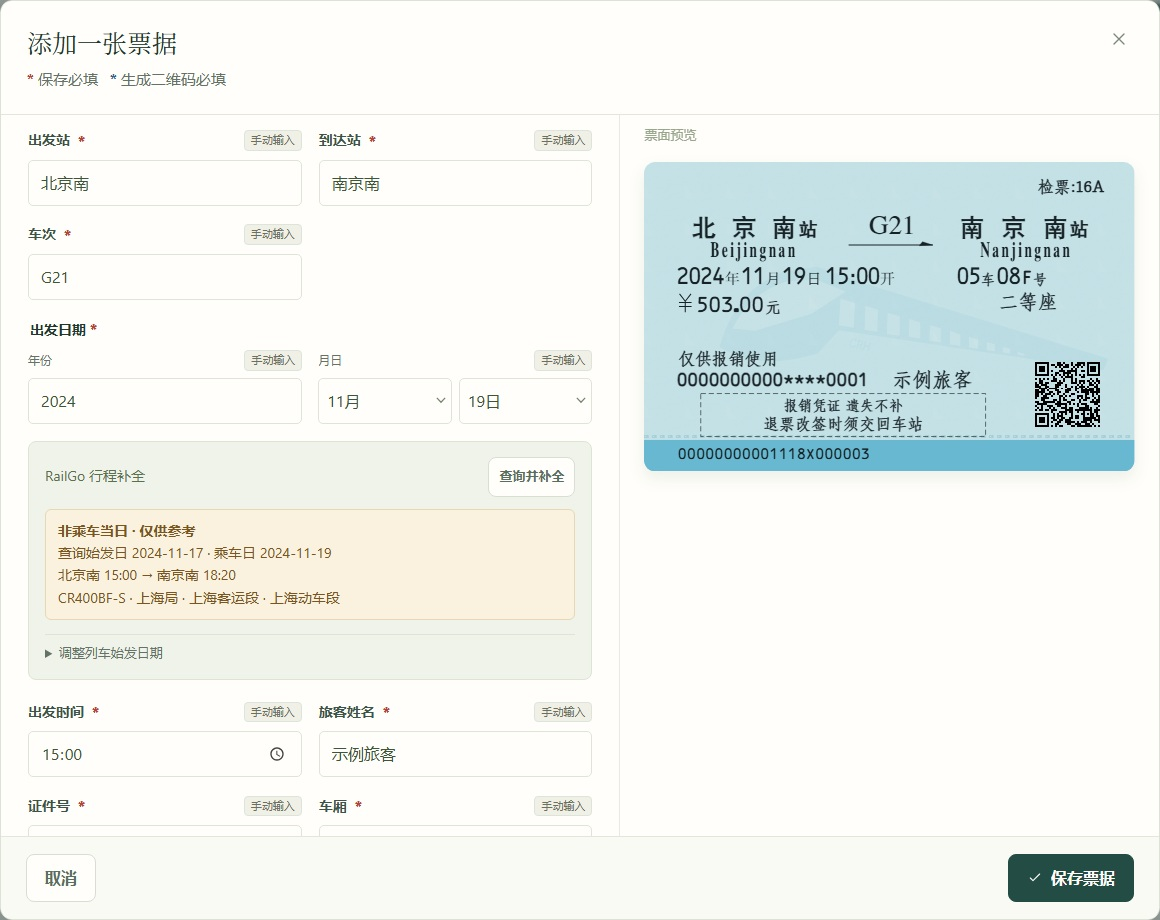
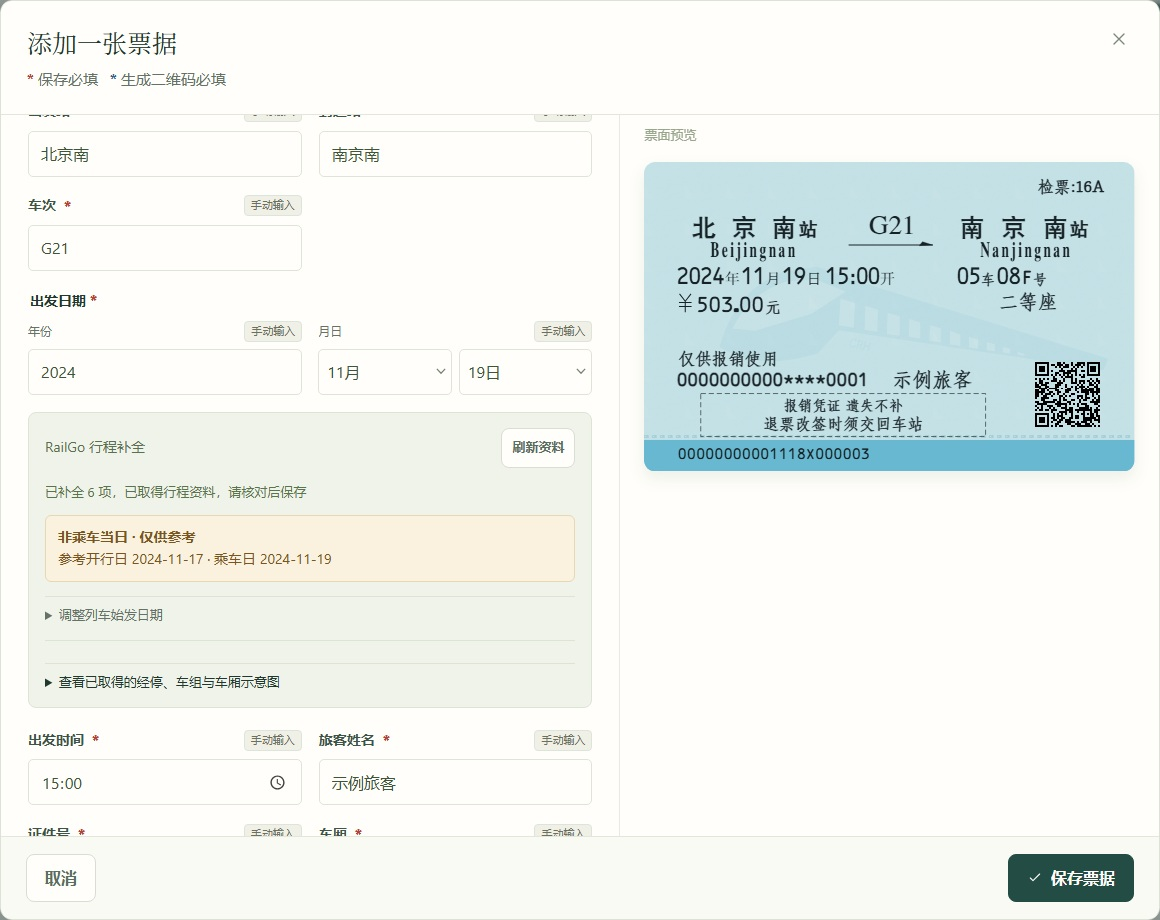
Fill RailGo fields from the nearest run day with reference labels

diff --git a/src/rail-lookup.js b/src/rail-lookup.js
@@ -2,27 +2,34 @@ import {calendarDate} from './journey-date.js';
 import { escape as e } from './html.js';
 import { railQuery, railCompletion } from './rail-lookup-model.js';
 import { lookupRailDetails, RAIL_DETAILS_SOURCE } from './rail-data.js';
-import { railJourneyMarkup, bindRailJourney } from './rail-journey-ui.js';
+import { railJourneyMarkup, railReferenceNotice, bindRailJourney } from './rail-journey-ui.js';
 import { railJourneyMatches } from './rail-journey.js';
-import {fieldSourceBadge} from './field-sources.js';
+import {fieldSourceBadge,RAILGO_REFERENCE_SOURCE} from './field-sources.js';
 
 export const railTrainsetField=record=>`<label class="field"><span>车组编号${fieldSourceBadge('railTrainsets',record)}</span><input name="railTrainsets" data-rail-trainsets value="${e(record.railTrainsets || '')}" placeholder="如 CR400BF-B-5099，多组用 / 分隔" /></label>`;
 
 export function railLookupMarkup(record) {
-  return `<section class="rail-lookup" aria-label="铁路资料补全"><div class="rail-lookup-heading"><a href="${RAIL_DETAILS_SOURCE}" target="_blank" rel="noopener noreferrer">RailGo 行程补全</a><button class="button secondary small" type="button" data-rail-lookup>${railJourneyMatches(record) ? '刷新资料' : '查询并补全'}</button></div><p class="rail-lookup-status" data-rail-status role="status" aria-live="polite"></p><div class="code-consistency" data-rail-reference role="status" aria-live="polite" hidden></div><details class="rail-start-override"><summary>调整列车始发日期</summary><label class="field"><span>列车始发日期</span><input type="date" data-date-control data-rail-start value="${e(railJourneyMatches(record) && calendarDate(record.railJourney.query.startDate) !== calendarDate(record.departureDate) ? calendarDate(record.railJourney.query.startDate) : '')}" min="1800-01-01" max="2200-12-31"/></label></details><details class="rail-lookup-result" data-rail-result ${railJourneyMatches(record) ? '' : 'hidden'}><summary>查看已取得的经停、车组与车厢示意图</summary><div data-rail-journey-preview>${railJourneyMarkup(record)}</div></details></section>`;
+  const journey = railJourneyMatches(record) ? record.railJourney : null;
+  const savedStart = journey && !journey.query.referenceFor ? calendarDate(journey.query.startDate) : '';
+  const startOverride = savedStart === calendarDate(record.departureDate) ? '' : savedStart;
+  const reference = railReferenceNotice(record);
+  return `<section class="rail-lookup" aria-label="铁路资料补全"><div class="rail-lookup-heading"><a href="${RAIL_DETAILS_SOURCE}" target="_blank" rel="noopener noreferrer">RailGo 行程补全</a><button class="button secondary small" type="button" data-rail-lookup>${journey ? '刷新资料' : '查询并补全'}</button></div><p class="rail-lookup-status" data-rail-status role="status" aria-live="polite"></p><div class="code-consistency" data-rail-reference role="status" aria-live="polite" ${reference ? '' : 'hidden'}>${reference}</div><details class="rail-start-override"><summary>调整列车始发日期</summary><label class="field"><span>列车始发日期</span><input type="date" data-date-control data-rail-start value="${e(startOverride)}" min="1800-01-01" max="2200-12-31"/></label></details><details class="rail-lookup-result" data-rail-result ${journey ? '' : 'hidden'}><summary>查看已取得的经停、车组与车厢示意图</summary><div data-rail-journey-preview>${railJourneyMarkup(record)}</div></details></section>`;
 }
 export function bindRailLookup(form, { getRecord, canQuery, apply, lookup = lookupRailDetails, scannedRail, scannedRailQR }) {
   const section = form.querySelector('.rail-lookup');
   if (!section) return () => {};
   const button = section.querySelector('[data-rail-lookup]'), date = section.querySelector('[data-rail-start]'), status = section.querySelector('[data-rail-status]'), preview = section.querySelector('[data-rail-journey-preview]'), resultBox = section.querySelector('[data-rail-result]');
   const referenceBox = section.querySelector('[data-rail-reference]');
-  let disposed = false, busy = false, request, appliedStamp = '', referenceStamp = '', applying = false;
+  let disposed = false, busy = false, request, appliedStamp = '', applying = false;
   const scan = scannedRailQR || scannedRail;
   const filled = new Map(Object.entries(getRecord().lookupValues || {}));
   const stamp = () => JSON.stringify([date.value, ...['type','template','service','departureDate','origin','originCode','destination','destinationCode'].map(field => getRecord()[field] || '')]);
-  if(filled.size)appliedStamp=stamp();
+  if (filled.size || railJourneyMatches(getRecord())) appliedStamp=stamp();
   const renderResult = () => {
     const record=getRecord();preview.innerHTML=railJourneyMarkup(record);resultBox.hidden=!railJourneyMatches(record);
+    const reference=railReferenceNotice(record);
+    if (referenceBox.innerHTML!==reference) referenceBox.innerHTML=reference;
+    referenceBox.hidden=!reference;
     const input=form.querySelector('[data-rail-trainsets]');if(input && input.value!==(record.railTrainsets || ''))input.value=record.railTrainsets || '';
   };
   const refresh = () => {
@@ -37,37 +44,25 @@ export function bindRailLookup(form, { getRecord, canQuery, apply, lookup = look
     try {
       const input = railQuery(getRecord(),date.value || undefined), original=stamp();
       const initialTime = getRecord().departureTime;
-      referenceBox.hidden = true;
-      referenceStamp = '';
       busy=true; button.disabled=true; button.textContent='正在查询…'; status.textContent='正在查询时刻、担当单位与列车资料…';
       request=new AbortController();
       const result=await lookup(input,{railRoute:getRecord().railRoute,railJourney:getRecord().railJourney,signal:AbortSignal.any([request.signal,AbortSignal.timeout(40000)])});
       if (disposed || !form.isConnected) return;
       if (!canQuery() || form.querySelector('[type="submit"]')?.disabled || original!==stamp() ||
           (automatic && getRecord().departureTime !== initialTime)) { status.textContent='查询条件已改变，本次结果未填入'; return; }
-      if (result.reference) {
-        const ref = result.reference;
-        const start = calendarDate(ref.railJourney.query.startDate);
-        const boarding = calendarDate(ref.railJourney.query.boardingDate);
-        const departure = (start === boarding ? '' : boarding + ' ') + ref.departureTime;
-        const arrival = (ref.arrivalDate === boarding ? '' : ref.arrivalDate + ' ') + ref.arrivalTime;
-        const details = [ref.railModel, ref.railBureau, ref.railRunner, ref.railCarOwner].filter(Boolean).join(' · ');
-        referenceBox.innerHTML = `<strong>非乘车当日 · 仅供参考</strong><div>查询始发日 ${e(start)} · 乘车日 ${e(input.boardingDate)}</div><div>${e(input.origin)} ${e(departure)} → ${e(input.destination)} ${e(arrival)}</div>${details ? '<div>' + e(details) + '</div>' : ''}`;
-        referenceBox.hidden = false;
-        referenceStamp = original;
-        status.textContent = '';
-        return;
-      }
-      if (automatic && scan.departureTime && result.departureTime !== scan.departureTime) {
+      const reference = result.railJourney.query.referenceFor;
+      if (!reference && automatic && scan.departureTime && result.departureTime !== scan.departureTime) {
         status.textContent='RailGo 发车时间与票面不同，请核对后手动查询';
         return;
       }
       const changes=railCompletion(getRecord(),result,date.value || undefined), count=Object.keys(changes).filter(key=>changes[key] && !['railJourney','railRoute'].includes(key)).length, snapshot=!!(changes.railJourney || changes.railRoute);
       if (Object.keys(changes).length) {
+        const runDay=calendarDate(result.railJourney.query.startDate);
+        const source=reference ? {kind:RAILGO_REFERENCE_SOURCE,label:`RailGo 参考资料（开行日 ${runDay}）`} : {kind:'rail-lookup',label:`RailGo 行程资料（始发日 ${runDay}）`};
         applying=true;
-        try { apply(changes,{kind:'rail-lookup',label:`RailGo 行程资料（始发日 ${calendarDate(result.railJourney.query.startDate)}）`,at:new Date().toISOString()}); }
+        try { apply(changes,{...source,at:new Date().toISOString()}); }
         finally { applying=false; }
-        for (const [field,value] of Object.entries(changes)) if (!['railJourney','railRoute'].includes(field)) filled.set(field,value);
+        for (const field of Object.keys(changes)) if (!['railJourney','railRoute'].includes(field)) filled.set(field,getRecord()[field]);
         appliedStamp=stamp();
       }
       renderResult();
@@ -78,15 +73,12 @@ export function bindRailLookup(form, { getRecord, canQuery, apply, lookup = look
   }
   const input=event=>{
     if (!applying && !disposed) {
-      if (event.target.closest('[data-journey-date]')?.dataset.journeyDate==='departureDate') date.value='';
-      if (referenceStamp && referenceStamp !== stamp()) {
-        referenceBox.hidden = true;
-        referenceStamp = '';
-      }
-      filled.delete(event.target.name);
+      const dateField=event.target.closest('[data-journey-date]')?.dataset.journeyDate;
+      if (dateField==='departureDate') date.value='';
+      filled.delete(dateField || event.target.name);
       if (appliedStamp && appliedStamp!==stamp()) {
         const changes={railJourney:'',railRoute:''};
-        for (const [field,value] of filled) if (getRecord()[field]===value) changes[field]='';
+        for (const [field,value] of filled) if (JSON.stringify(getRecord()[field])===JSON.stringify(value)) changes[field]='';
         filled.clear(); appliedStamp=''; applying=true;
         try { apply(changes,null); } finally { applying=false; }
       }

diff --git a/src/app.js b/src/app.js
@@ -4,7 +4,7 @@ import {calendarDate,JOURNEY_DATE_FIELDS} from './journey-date.js';
 import {ticketFieldLocked,refreshTicketFieldLocks} from './barcode-fields.js';
 import {ACTUAL_FLIGHT_FIELDS} from './flight-times.js';
 import {boardingGeneratorMarkup,readBoardingGenerator,refreshBoardingPassenger} from './boarding-code-generator.js';
-import {fieldSourceBadge,hasFieldValue,markFieldSources,railInvoiceFieldLocked,refreshFieldSources} from './field-sources.js';
+import {fieldSourceBadge,hasFieldValue,markFieldSources,railInvoiceFieldLocked,refreshFieldSources,RAILGO_REFERENCE_SOURCE} from './field-sources.js';
 import {readBoardingCode} from './bcbp.js';
 import {flightPassengerName} from './flight-passenger.js';
 import { bindIdentityInput } from './identity.js';
@@ -43,7 +43,7 @@ import { flightLookupMarkup, bindFlightLookup } from './flight-lookup.js';
 import { flightTrackRequest } from './flight-track.js';
 import { railLookupMarkup, bindRailLookup, railTrainsetField } from './rail-lookup.js';
 import { RAIL_POINTS_PAGE, railPointsRange, readRailPoints, railPointsRecords } from './rail-points.js';
-import { railJourneyMarkup, bindRailJourney } from './rail-journey-ui.js';
+import { railJourneyMarkup, railReferenceNotice, bindRailJourney } from './rail-journey-ui.js';
 import { railJourneyMatches } from './rail-journey.js';
 import { openRailCamera } from './rail-camera.js';
 import { parseScanText, railPhotoChanges } from './scan-engine.js';
@@ -852,7 +852,8 @@ function viewRecord(id) {
   const r = findRecord(id); if (!r) return;
   const demo = id.startsWith('demo-');
   const details = ticketDetails(r);
-  openModal(modalHead(`<span class="heading-service">${e(r.service || (r.flightStatus === 'open' ? 'OPEN' : '班次待补充'))}</span><span class="heading-route">${e(r.origin || '出发地')} <span class="muted">→</span> ${e(r.destination || '到达地')}</span>`, demo ? '虚构示例' : '') + `<div class="detail-preview">${ticketSVG(r)}</div><div class="detail-body"><dl class="detail-grid">${details.map(([key, value]) => `<div><dt>${e(key === 'price' && isRefundReceipt(r) ? '退票费（元）' : key === 'seat' && r.type === 'flight' ? '座位 / 舱位' : key === 'gate' && r.type === 'flight' ? '登机口' : ticketFieldLabel(key,r.type,labels[key]))}</dt><dd>${e(value || '未收录')}</dd></div>`).join('')}</dl>${boardingJourneyMarkup(r,live())}${railJourneyMarkup(r,live())}${r.type === 'rail' ? '<section class="rail-route" data-rail-route hidden aria-label="铁路线路"></section>' : !demo && isJourneyRecord(r) ? '<section class="rail-route flight-track" data-flight-track aria-label="飞行航迹"></section>' : ''}<details class="source-details"><summary>数据来源 · ${r.sources.length} 条</summary>${r.sources.map(s => `<p>${e(s.label)}<span>${e(s.at.slice(0, 10))}</span></p>`).join('') || '<p>录入</p>'}</details></div><div class="modal-footer"><button class="button secondary" data-action="export-png" data-id="${e(id)}">${icon('download')}导出图片</button><button class="button secondary" data-action="export-svg" data-id="${e(id)}">SVG</button><div class="spacer"></div>${!demo ? `<button class="icon-button danger" data-action="delete" data-id="${e(id)}" aria-label="删除票据">${icon('trash')}</button><button class="button primary" data-action="edit" data-id="${e(id)}">${icon('edit')}编辑票据</button>` : ''}</div>`);
+  const reference = railReferenceNotice(r);
+  openModal(modalHead(`<span class="heading-service">${e(r.service || (r.flightStatus === 'open' ? 'OPEN' : '班次待补充'))}</span><span class="heading-route">${e(r.origin || '出发地')} <span class="muted">→</span> ${e(r.destination || '到达地')}</span>`, demo ? '虚构示例' : '') + `<div class="detail-preview">${ticketSVG(r)}</div><div class="detail-body">${reference ? `<div class="code-consistency" data-rail-reference>${reference}</div>` : ''}<dl class="detail-grid">${details.map(([key, value]) => `<div><dt>${e(key === 'price' && isRefundReceipt(r) ? '退票费（元）' : key === 'seat' && r.type === 'flight' ? '座位 / 舱位' : key === 'gate' && r.type === 'flight' ? '登机口' : ticketFieldLabel(key,r.type,labels[key]))}${r.fieldSources?.[key]===RAILGO_REFERENCE_SOURCE ? fieldSourceBadge(key,r) : ''}</dt><dd>${e(value || '未收录')}</dd></div>`).join('')}</dl>${boardingJourneyMarkup(r,live())}${railJourneyMarkup(r,live())}${r.type === 'rail' ? '<section class="rail-route" data-rail-route hidden aria-label="铁路线路"></section>' : !demo && isJourneyRecord(r) ? '<section class="rail-route flight-track" data-flight-track aria-label="飞行航迹"></section>' : ''}<details class="source-details"><summary>数据来源 · ${r.sources.length} 条</summary>${r.sources.map(s => `<p>${e(s.label)}<span>${e(s.at.slice(0, 10))}</span></p>`).join('') || '<p>录入</p>'}</details></div><div class="modal-footer"><button class="button secondary" data-action="export-png" data-id="${e(id)}">${icon('download')}导出图片</button><button class="button secondary" data-action="export-svg" data-id="${e(id)}">SVG</button><div class="spacer"></div>${!demo ? `<button class="icon-button danger" data-action="delete" data-id="${e(id)}" aria-label="删除票据">${icon('trash')}</button><button class="button primary" data-action="edit" data-id="${e(id)}">${icon('edit')}编辑票据</button>` : ''}</div>`);
   const journeyContainer=modalRoot.querySelector('.rail-journey');
   if(journeyContainer)railJourneyCleanup=bindRailJourney(journeyContainer,()=>r);
   const routeContainer = modalRoot.querySelector('[data-rail-route]');

diff --git a/tests/rail-lookup-app.test.js b/tests/rail-lookup-app.test.js
@@ -4,6 +4,7 @@ import assert from 'node:assert/strict';
 import { JSDOM } from 'jsdom';
 import { indexedDB } from 'fake-indexeddb';
 import { createRecord } from '../src/model.js';
+import { calendarDate } from '../src/journey-date.js';
 import { prepareCloud } from './helpers/cloud.js';
 
 test('the rail editor fetches, saves, reopens and counts rail metadata without changing the ticket face', async () => {
@@ -13,12 +14,13 @@ test('the rail editor fetches, saves, reopens and counts rail metadata without c
   window.scrollTo=()=>{};window.HTMLDialogElement.prototype.showModal=function(){this.open=true;};window.HTMLDialogElement.prototype.close=function(){this.open=false;};
   const ticket=createRecord({id:'rail',origin:'北京南',destination:'上海虹桥',service:'G1',departureDate:'2026-11-17',departureTime:'06:30',passenger:'示例旅客',identity:'P000001',carriage:'03',seat:'08A',seatClass:'二等座'});
   const server=await prepareCloud([ticket]),fetcher=globalThis.fetch,requests=[];let currentModel='CR400BF-S';
+  let runDay='20261117';
   globalThis.fetch=async(url,options)=>{
     if(new URL(url).hostname==='emu.railgo.zenglingkun.cn')return Response.json(new URL(url).pathname==='/api/query' ? {success:true,data:[{runDate:'2026-11-17',trainNum:'G1',trainCode:[currentModel+'-0001'],coupling:false}]} : {success:true,data:{id:currentModel+'-0001',model:currentModel}});
     if(new URL(url).hostname!=='rg-api.zenglingkun.cn')return fetcher(url,options);
     if(new URL(url).pathname!=='/api/v2/getTrainMain')return Response.json({success:false});
-    requests.push(url);assert.deepEqual([...new URL(url).searchParams],[['trainNum','G1'],['date','20261117']]);
-    return Response.json({success:true,data:{bureau:'H',bureauShortName:'上局',car:currentModel,runner:'上海客运段',carOwner:'上海动车段',numberFull:['G1'],rundays:['20261117'],timetable:[{station:'北京南',day:0,arrive:'06:30',depart:'06:30'},{station:'上海虹桥',day:0,arrive:'11:24',depart:'11:24'}]}});
+    requests.push(url);assert.equal(new URL(url).searchParams.get('trainNum'),'G1');
+    return Response.json({success:true,data:{bureau:'H',bureauShortName:'上局',car:currentModel,runner:'上海客运段',carOwner:'上海动车段',numberFull:['G1'],rundays:[runDay],timetable:[{station:'北京南',day:0,arrive:'06:30',depart:'06:30'},{station:'上海虹桥',day:0,arrive:'11:24',depart:'11:24'}]}});
   };
   const wait=async fn=>{for(let i=0;i<300;i++){if(await fn())return;await new Promise(done=>setTimeout(done,5));}assert.fail('Rail editor did not settle');};
   try{
@@ -78,5 +80,28 @@ test('the rail editor fetches, saves, reopens and counts rail metadata without c
     assert.match(document.querySelector('[data-stat-ranking="rail-bureaus"]').textContent,/北京局1 次/);
     assert.match(document.querySelector('[data-stat-ranking="rail-models"]').textContent,/CR400AF1 次/);
     assert.doesNotMatch(document.querySelector('#statistics-root').textContent,/查看图表数据/);
+
+    document.querySelector('[data-action="navigate"][data-page="archive"]').click();
+    await wait(()=>document.querySelector('[data-action="view"][data-id="rail"]'));
+    document.querySelector('[data-action="view"][data-id="rail"]').click();
+    await wait(()=>document.querySelector('[data-action="edit"]:not(:disabled)'));
+    document.querySelector('[data-action="edit"]').click();
+    await wait(()=>document.querySelector('#editor-form'));
+    const boardingDay=document.querySelector('[name=departureDateDay]');
+    boardingDay.value='18';
+    boardingDay.dispatchEvent(new window.Event('input',{bubbles:true}));
+    runDay='20261116'; currentModel='CR400BF-S';
+    document.querySelector('[data-rail-lookup]').click();
+    await wait(()=>document.querySelector('[data-field-source="railModel"]')?.textContent==='RailGo 参考');
+    assert.deepEqual(requests.map(url=>new URL(url).searchParams.get('date')),['20261117','20261117','20261117','20261118','20261116']);
+    document.querySelector('#editor-form').dispatchEvent(new window.Event('submit',{bubbles:true,cancelable:true}));
+    await wait(()=>!document.querySelector('dialog'));
+    assert.equal(calendarDate(server.records()[0].departureDate),'2026-11-18');
+    assert.equal(calendarDate(server.records()[0].arrivalDate),'2026-11-18');
+    assert.equal(server.records()[0].fieldSources.railModel,'railgo-reference');
+    document.querySelector('[data-action="view"][data-id="rail"]').click();
+    await wait(()=>document.querySelector('.detail-grid'));
+    assert.match(document.querySelector('[data-rail-reference]').textContent,/非乘车当日 · 仅供参考.*2026-11-16.*2026-11-18/);
+    assert.equal(document.querySelector('.detail-grid [data-field-source="railModel"]').textContent,'RailGo 参考');
   }finally{window.dispatchEvent(new window.Event('offline'));dom.window.close();}
 });

diff --git a/tests/rail-lookup.test.js b/tests/rail-lookup.test.js
@@ -6,6 +6,7 @@ import { createRecord, archive, readArchive } from '../src/model.js';
 import { railQuery, railDetails, railCompletion } from '../src/rail-lookup-model.js';
 import { lookupRailDetails } from '../src/rail-data.js';
 import { railLookupMarkup, bindRailLookup } from '../src/rail-lookup.js';
+import { applyLookupValues } from '../src/lookup-values.js';
 import { journeyStatistics } from '../src/statistics-model.js';
 import { mountStatistics } from '../src/statistics.js';
 import { ticketSVG } from '../src/tickets.js';
@@ -45,32 +46,51 @@ test('a boarding day is checked against the first-station date, including an aft
   assert.deepEqual(railCompletion({...ticket,destination:'苏州北'},result,'2026-11-16'),{});
 });
 
-test('RailGo queries the closest returned run day and displays it without saving a different day', async () => {
-  const ticket = record(), calls = [];
+test('RailGo fills from the closest run day, preserves the ticket date, and keeps the reference label after saving', async () => {
+  const ticket = record({ departureTime: '07:10', lockedFields: ['departureTime'] }), calls = [];
+  const timetable = [
+    {station:'北京南',day:0,depart:'23:50'},
+    {station:'上海虹桥',day:1,arrive:'05:30'}
+  ];
   const dom = new JSDOM('<form>' + railLookupMarkup(ticket) + '<input name="service"><button type="submit">保存</button></form>');
   const form = dom.window.document.querySelector('form');
   const cleanup = bindRailLookup(form, {
     getRecord: () => ticket, canQuery: () => true,
-    apply: () => assert.fail('Reference data must not be applied to the ticket'),
+    scannedRailQR: structuredClone(ticket),
+    apply: (changes, source) => applyLookupValues(ticket, changes, !!source, source),
     lookup: query => lookupRailDetails(query, { fetcher: async url => {
       const date = new URL(url).searchParams.get('date');
       calls.push(date);
-      return Response.json(payload({ rundays: date === '20261117' ? ['20261118', '20261002', '20261131', '20261116'] : ['20261116'] }));
+      return Response.json(payload({ timetable, rundays: date === '20261117' ? ['20261118', '20261002', '20261131', '20261116'] : ['20261116'] }));
     } })
   });
   try {
-    form.querySelector('[data-rail-lookup]').click();
     await new Promise(done => setImmediate(done));
     assert.deepEqual(calls, ['20261117', '20261116']);
     const reference = form.querySelector('[data-rail-reference]');
     assert.equal(reference.hidden, false);
-    assert.match(reference.textContent, /非乘车当日 · 仅供参考.*查询始发日 2026-11-16.*乘车日 2026-11-17.*北京南 06:30.*上海虹桥 11:24/);
+    assert.match(reference.textContent, /非乘车当日 · 仅供参考.*参考开行日 2026-11-16.*乘车日 2026-11-17/);
     assert.equal(calendarDate(ticket.departureDate), '2026-11-17');
-    assert.equal(ticket.railModel, '');
-    assert.equal(ticket.railJourney, '');
+    assert.equal(ticket.departureTime, '07:10');
+    assert.equal(ticket.arrivalTime, '05:30');
+    assert.equal(calendarDate(ticket.arrivalDate), '2026-11-18');
+    assert.equal(ticket.railModel, 'CR400BF-S');
+    const [saved] = readArchive(archive([ticket]));
+    assert.equal(saved.fieldSources.railModel, 'railgo-reference');
+    assert.equal(calendarDate(saved.railJourney.stops.at(-1).arrivalDate), '2026-11-17');
+    assert.match(railLookupMarkup(saved), /非乘车当日 · 仅供参考/);
+    const confirmed = railDetails(payload({ car: 'CR400AF' }), railQuery(saved));
+    const fresh = railCompletion(saved, confirmed);
+    applyLookupValues(saved, fresh, true, { kind: 'rail-lookup' });
+    assert.equal(saved.fieldSources.railModel, 'railgo');
+    assert.equal(saved.railModel, 'CR400AF');
+    assert.doesNotMatch(railLookupMarkup(saved), /非乘车当日/);
+    assert.deepEqual(railCompletion(saved, {query: railQuery(saved, '2026-11-16'), railJourney: ticket.railJourney}), {});
     ticket.service = 'G2';
     form.elements.service.dispatchEvent(new dom.window.Event('input', { bubbles: true }));
     assert.equal(reference.hidden, true);
+    assert.equal(ticket.railModel, '');
+    assert.equal(ticket.arrivalDate, '');
   } finally { cleanup(); dom.window.close(); }
 });
 

diff --git a/src/rail-lookup-model.js b/src/rail-lookup-model.js
@@ -1,10 +1,11 @@
 import {calendarDate,journeyDate} from './journey-date.js';
 import {isLookupValue} from './lookup-values.js';
+import { RAILGO_REFERENCE_SOURCE } from './field-sources.js';
 import { railRouteMatches, railRouteNeedsSave } from './rail-route-snapshot.js';
 import { validDate } from './model.js';
 import { resolvePlace } from './places.js';
 import { bureauFromCode, normalizeRailBureau, parseRailGoModel } from './rail-details.js';
-import { railText as clean, railStation as stationName, railService as service, railTime, normalizeRailJourney, sameRailTimetable } from './rail-journey.js';
+import { railText as clean, railStation as stationName, railService as service, railTime, normalizeRailJourney, railJourneyMatches, sameRailTimetable } from './rail-journey.js';
 
 export const shiftRailDate = (date, days) => { const result = new Date(calendarDate(date) + 'T00:00:00Z'); result.setUTCDate(result.getUTCDate() + days); return result.toISOString().slice(0, 10); };
 export const railDepartureDay = (day, arrival, departure) => day + (arrival && departure < arrival ? 1 : 0);
@@ -78,7 +79,8 @@ export function railDetails(payload, query, queriedAt = new Date().toISOString()
     }
   }
   const railJourney = normalizeRailJourney({
-    query: { trainNum: query.trainNum, startDate: journeyDate(startDate), boardingDate: journeyDate(boardingDate), origin: query.origin, destination: query.destination },
+    query: { trainNum: query.trainNum, startDate: journeyDate(startDate), boardingDate: journeyDate(boardingDate), origin: query.origin, destination: query.destination,
+      ...(boardingDate !== query.boardingDate && { referenceFor: journeyDate(query.boardingDate) }) },
     queriedAt,
     stops: stops.map(stop => ({ ...stop, arrivalDate: journeyDate(stop.arrivalDate), departureDate: journeyDate(stop.departureDate) })),
   });
@@ -87,13 +89,22 @@ export function railDetails(payload, query, queriedAt = new Date().toISOString()
 }
 
 export function railCompletion(record, result, startDate) {
-  const query = railQuery(record, startDate || result.railJourney?.query.startDate || record.departureDate);
+  const journey = result.railJourney, referenceFor = journey?.query.referenceFor;
+  const query = railQuery(record, (!referenceFor && startDate) || journey?.query.startDate || record.departureDate);
   if (JSON.stringify(query) !== JSON.stringify(result.query)) return {};
-  const values={...result,railTrainsets:(result.railJourney?.trainsets || []).map(stock=>stock.id).join(' / ')};
+  if (referenceFor && railJourneyMatches(record) && !record.railJourney.query.referenceFor) return {};
+  const values={...result,railTrainsets:(journey?.trainsets || []).map(stock=>stock.id).join(' / ')};
+  if (referenceFor) {
+    const overnightDays = (Date.parse(result.arrivalDate) - Date.parse(calendarDate(journey.query.boardingDate))) / 86400000;
+    values.arrivalDate = shiftRailDate(referenceFor, overnightDays);
+  }
   const fields = ['railBureau','railModel','railTrainsets','railPowerSupply','railMileage','railRunner','railCarOwner','gate','railPlatform','departureTime','arrivalDate','arrivalTime'];
   const changes = Object.fromEntries(fields.filter(field => (!record[field] || isLookupValue(record,field)) && !record.lockedFields?.includes(field) && values[field]).map(field => [field, values[field]]));
   const differentTimetable = record.railJourney && result.railJourney
     && !sameRailTimetable(record.railJourney, result.railJourney);
+  for (const field of fields) {
+    if (!values[field] && record.fieldSources?.[field] === RAILGO_REFERENCE_SOURCE && isLookupValue(record,field)) changes[field] = '';
+  }
   if (differentTimetable) {
     for (const field of ['railMileage', 'railTrainsets', 'gate', 'railPlatform']) {
       if (!values[field] && isLookupValue(record, field)) changes[field] = '';

diff --git a/src/rail-journey.js b/src/rail-journey.js
@@ -28,6 +28,11 @@ export function normalizeRailJourney(value) {
   if (!object(value) || !object(value.query)) throw new Error('铁路行程资料格式不正确');
   const query = { trainNum:railService(value.query.trainNum), startDate:railDate(value.query.startDate), boardingDate:railDate(value.query.boardingDate), origin:railStation(value.query.origin), destination:railStation(value.query.destination) };
   if (!/^(?:[GDCZTKYLS]\d{1,5}|\d{3,5})$/.test(query.trainNum) || !query.startDate || !query.boardingDate || !query.origin || !query.destination || query.origin === query.destination || !timestamp(value.queriedAt)) throw new Error('铁路行程查询条件不完整');
+  if (Object.hasOwn(value.query, 'referenceFor')) {
+    const referenceFor = railDate(value.query.referenceFor);
+    if (!referenceFor || sameDate(referenceFor, query.boardingDate)) throw new Error('铁路参考资料的乘车日期无效');
+    query.referenceFor = referenceFor;
+  }
   if (!Array.isArray(value.stops) || value.stops.length < 2 || value.stops.length > 300) throw new Error('铁路经停站资料格式不正确');
   const stops = value.stops.map(stop => {
     if (!object(stop) || !railStation(stop.station)) throw new Error('铁路经停站资料格式不正确');
@@ -61,7 +66,7 @@ export function normalizeRailJourney(value) {
 export function sameRailTimetable(saved, fresh) {
   if (!saved?.query || !fresh?.query || saved.stops.length !== fresh.stops.length) return false;
   if (!['trainNum', 'origin', 'destination'].every(key => saved.query[key] === fresh.query[key])
-      || !['startDate', 'boardingDate'].every(key => sameDate(saved.query[key], fresh.query[key]))) return false;
+      || !['startDate', 'boardingDate', 'referenceFor'].every(key => sameDate(saved.query[key], fresh.query[key]))) return false;
   return fresh.stops.every((stop, i) => {
     const old = saved.stops[i];
     return ['station', 'trainCode', 'arrivalTime', 'departureTime'].every(key => old[key] === stop[key])
@@ -72,7 +77,7 @@ export function sameRailTimetable(saved, fresh) {
 export function railJourneyMatches(record, journey = record.railJourney) {
   if (record.type !== 'rail' || record.template === 'rail-refund-receipt' || !journey?.query) return false;
   const query = journey.query;
-  return railService(record.service).split('/')[0] === query.trainNum && calendarDate(record.departureDate) === calendarDate(query.boardingDate) && ['origin','destination'].every(side => {
+  return railService(record.service).split('/')[0] === query.trainNum && sameDate(record.departureDate, query.referenceFor || query.boardingDate) && ['origin','destination'].every(side => {
     const place = resolvePlace(record, side);
     return !['ambiguous','conflict'].includes(place.status) && railStation(place.status === 'matched' ? place.name : record[side]) === query[side];
   });

diff --git a/src/field-sources.js b/src/field-sources.js
@@ -8,11 +8,12 @@ export const railInvoiceFieldLocked = (record, key) => record.type === 'rail' &&
   !!record.railInvoice?.electronicTicketNumber && record.fieldSources?.[key] === 'pdf';
 
 export const RAIL_POINTS_SOURCE = 'rail-points';
-const FIELD_SOURCES=Object.freeze({manual:'手动输入',barcode:'条码',variflight:'飞常准',railgo:'RailGo',profile:'个人资料',ocr:'图片识别',pdf:'PDF 导入',default:'默认值',generated:'自动生成',database:'地点数据库',lookup:'查询补全',[RAIL_POINTS_SOURCE]:'12306 积分'});
+export const RAILGO_REFERENCE_SOURCE = 'railgo-reference';
+const FIELD_SOURCES=Object.freeze({manual:'手动输入',barcode:'条码',variflight:'飞常准',railgo:'RailGo',profile:'个人资料',ocr:'图片识别',pdf:'PDF 导入',default:'默认值',generated:'自动生成',database:'地点数据库',lookup:'查询补全',[RAIL_POINTS_SOURCE]:'12306 积分',[RAILGO_REFERENCE_SOURCE]:'RailGo 参考'});
 const metadata=new Set(['fieldSources','lookupValues','boardingCodeSource','boardingCodeOperatingFlight','deleted']);
 const editorSettings=new Set(['type','template','flightStatus','provenance','offsetX','offsetY']);
 export const hasFieldValue=value=>value!==undefined && value!==null && value!==false && value!=='' && (!Array.isArray(value) || value.length>0);
-const imports={manual:'manual',scan:'ocr',pdf:'pdf','rail-lookup':'railgo','flight-lookup':'variflight',[RAIL_POINTS_SOURCE]:RAIL_POINTS_SOURCE};
+const imports={manual:'manual',scan:'ocr',pdf:'pdf','rail-lookup':'railgo','flight-lookup':'variflight',[RAIL_POINTS_SOURCE]:RAIL_POINTS_SOURCE,[RAILGO_REFERENCE_SOURCE]:RAILGO_REFERENCE_SOURCE};
 export const importFieldSource=kind=>Object.hasOwn(imports,kind) ? imports[kind] : '';
 
 export function normalizeFieldSources(input,fields) {

diff --git a/src/rail-journey-ui.js b/src/rail-journey-ui.js
@@ -8,6 +8,13 @@ const facts = entries => `<dl class="rail-facts">${entries.filter(([,value])=>va
 const carriageNumber = value => String(Number(String(value || '').match(/\d+/)?.[0] || 0));
 const localToday = () => { const date = new Date(); return `${date.getFullYear()}-${String(date.getMonth()+1).padStart(2,'0')}-${String(date.getDate()).padStart(2,'0')}`; };
 
+export function railReferenceNotice(record) {
+  if (!railJourneyMatches(record) || !record.railJourney.query.referenceFor) return '';
+  const { startDate, boardingDate, referenceFor } = record.railJourney.query;
+  const referenceBoarding = sameDate(startDate, boardingDate) ? '' : ` · 参考上车日 ${calendarDate(boardingDate)}`;
+  return `<strong>非乘车当日 · 仅供参考</strong><div>参考开行日 ${e(calendarDate(startDate))}${e(referenceBoarding)} · 乘车日 ${e(calendarDate(referenceFor))}</div>`;
+}
+
 function stockMarkup(record, journey, records) {
   const ids=railTrainsetIds(record), stocks=journey.trainsets.filter(stock=>ids.includes(stock.id));
   if (!stocks.length) return ids.length || isEmuModel(record.railModel) ? '<p class="rail-empty">暂未查到该车组的详细资料。</p>' : '';

diff --git a/src/rail-data.js b/src/rail-data.js
@@ -137,10 +137,9 @@ export async function lookupRailDetails(query, { fetcher = globalThis.fetch, sig
   try { result = await matchingTrip(); }
   catch (error) {
     if (!error.referenceDate) throw error;
-    const reference = await main({ ...query, date: error.referenceDate.replaceAll('-', '') }, true);
-    return { reference };
+    result = await main({ ...query, date: error.referenceDate.replaceAll('-', '') }, true);
   }
-  if (!enrich) return result;
+  if (!enrich || result.railJourney.query.referenceFor) return result;
   const journey = result.railJourney, queriedAt = journey.queriedAt;
   const saved = sameRailTimetable(railJourney, journey) ? railJourney : null;
   const routeRecord = {type:'rail', service:result.query.trainNum, origin:result.query.origin, destination:result.query.destination};

diff --git a/docs/data-sources.md b/docs/data-sources.md
@@ -42,7 +42,7 @@
 
 ![铁路路局和车型补全，旅客信息为虚构示例](images/railgo-metadata.jpg)
 
-编辑器将查询入口放在出发日期之后。填齐乘车日期、起终点和车次，点击“查询并补全”才发送请求。接口日期指全车首站发车日；若匹配的时刻表显示中途上车发生在后续运行日，会据此换算始发日并重新查询验证，也可展开“调整列车始发日期”手选。车次、开行日、上下车站顺序、本站发车日期与区间时间顺序均匹配后，才补全空白且未锁定的字段。保留手填值。若回包只列出其他开行日，查询最接近乘车日的一天并标为「非乘车当日 · 仅供参考」，资料展示在查询区。输入、打开编辑器或保存不会自动查询；已有资料时显示“刷新资料”，每次明确点击重新查询，查询进行中阻止重复请求。
+编辑器将查询入口放在出发日期之后。填齐乘车日期、起终点和车次后可以查询并补全，符合条件的扫码录入也会触发查询。接口日期指全车首站发车日，可展开“调整列车始发日期”手选。跨日上车时，按时刻表换算始发日并重新验证。若回包只列出其他开行日，查询最接近乘车日的一天，补全可填字段，并在编辑器和保存后的详情标为「非乘车当日 · 仅供参考」。参考时刻表保留原日期，票据的参考到达日期按实际乘车日和跨日天数计算。手填、锁定及已核实的当日资料优先。
 
 查询仅发送公开车次、日期、上车站电报码或查到的车组号，不发送姓名、证件、座位、票价。担当路局采用 `bureau` 及官方对照表，担当客运段取 `runner`，车辆归属单位取 `carOwner`，不混用或由站点推断。普速示例 Z22 可返回“西宁客运段”和“西宁车辆段”；普速记录不要求动车所或动车组编号。编辑器及详情展示来源链接，车组资料同时保留定制类型、车型备注与具体车组备注。资料快照随 JSON 和云同步保存；修改日期、车次或乘车区间后，不再沿用失配快照。
 
